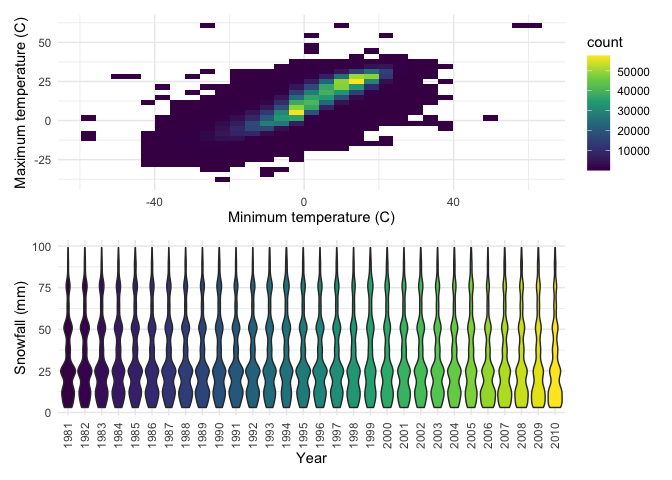
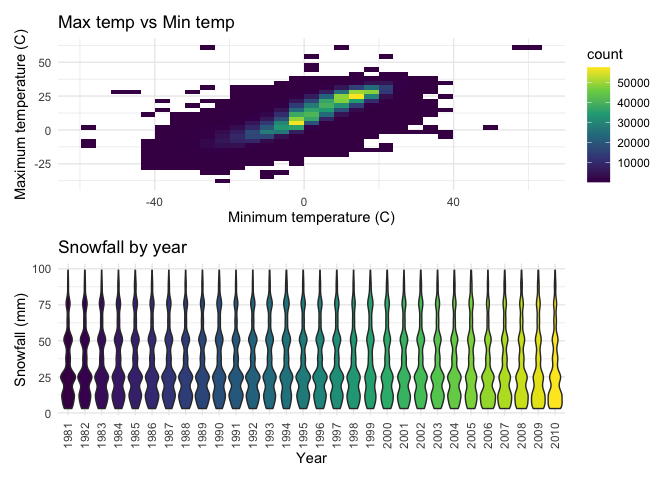
fixed typo and created more spaces

diff --git a/p8105_hw3_ll3344.md b/p8105_hw3_ll3344.md
@@ -9,14 +9,14 @@ First, load all necessary
 library(tidyverse)
 ```
 
-    ## ── Attaching packages ───────────────────────────────────────────────────────────────────────────────────────────────────────────── tidyverse 1.3.0 ──
+    ## ── Attaching packages ─────────────────────────────────────────────────────── tidyverse 1.3.0 ──
 
     ## ✓ ggplot2 3.3.2     ✓ purrr   0.3.4
     ## ✓ tibble  3.0.1     ✓ dplyr   1.0.2
     ## ✓ tidyr   1.1.0     ✓ stringr 1.4.0
     ## ✓ readr   1.3.1     ✓ forcats 0.5.0
 
-    ## ── Conflicts ──────────────────────────────────────────────────────────────────────────────────────────────────────────────── tidyverse_conflicts() ──
+    ## ── Conflicts ────────────────────────────────────────────────────────── tidyverse_conflicts() ──
     ## x dplyr::filter() masks stats::filter()
     ## x dplyr::lag()    masks stats::lag()
 
@@ -113,9 +113,10 @@ instacart %>%
   ggtitle("Most popular aisles in Instacart")
 ```
 
-![](p8105_hw3_ll3344_files/figure-gfm/aisles_plot-1.png)<!-- --> The
-aisles are ordered on the X-axis from left to right by increasing number
-of items ordered.
+![](p8105_hw3_ll3344_files/figure-gfm/aisles_plot-1.png)<!-- -->
+
+The aisles are ordered on the X-axis from left to right by increasing
+number of items ordered.
 
 We will now make a table featuring the three most popular items in the
 aisles: “baking ingredients”, “dog food care”, and “packaged vegetables
@@ -265,8 +266,9 @@ accel_df %>%
 
     ## `geom_smooth()` using method = 'gam' and formula 'y ~ s(x, bs = "cs")'
 
-![](p8105_hw3_ll3344_files/figure-gfm/plot_activity-1.png)<!-- --> The
-patient has little activity between minutes 0 to about 400. This
+![](p8105_hw3_ll3344_files/figure-gfm/plot_activity-1.png)<!-- -->
+
+The patient has little activity between minutes 0 to about 400. This
 corresponds to the hours between midnight and approximately 7am, during
 which time he is probably sleeping. His most active periods during the
 week appear to be Sunday mornings and Friday evenings.
@@ -289,9 +291,9 @@ data("ny_noaa")
     tenths of mm (prcp), snowfall in mm (snow), snow depth in mm (snwd),
     as well as the maximum (tmax) and minimum temperature (tmin) in
     Celsius.
-  - Since each station only collects a subset of this dat, the resulting
-    dataset does contain a significant amount of missing data shown in
-    the below table by column/variable.
+  - Since each station only collects a subset of this data, the
+    resulting dataset does contain a significant amount of missing data
+    shown in the below table by column/variable.
 
 <!-- end list -->
 
@@ -391,14 +393,15 @@ noaa_df %>%
   theme(axis.text.x = element_text(angle = 90, vjust = 0.5, hjust=1)) +
   xlab("Year") + 
   ylab("Average maximum temperature (C)") +
-  ggtitle("Average maximum temperature across NY stations from 1981-2010 in January and July")
+  ggtitle("Average maximum temperature across NY in January and July")
 ```
 
     ## `summarise()` regrouping output by 'id', 'year' (override with `.groups` argument)
 
-![](p8105_hw3_ll3344_files/figure-gfm/plot_tmax-1.png)<!-- --> The plot
-shows that as expected the maximum temperature in July is about 30
-degrees Celsius higher than in January in NY. There is no clear trend
+![](p8105_hw3_ll3344_files/figure-gfm/plot_tmax-1.png)<!-- -->
+
+The plot shows that as expected the maximum temperature in July is about
+30 degrees Celsius higher than in January in NY. There is no clear trend
 over time. There are two notable outliers in January 1982 and 1996 with
 markedly lower temperatures. There is also an outlier in July 1988 which
 also appeared to have a markedly lower temperature than would be
@@ -416,7 +419,8 @@ tmax_tmin_p =
   geom_bin2d() +
   xlab("Minimum temperature (C)") +
   ylab("Maximum temperature (C)") +
-  theme(legend.position = "right")
+  theme(legend.position = "right") +
+  ggtitle("Max temp vs Min temp")
 
 snowfall_p = 
   noaa_df %>%
@@ -425,7 +429,8 @@ snowfall_p =
   geom_violin(aes(fill = year)) + 
   xlab("Year") + 
   ylab("Snowfall (mm)") +
-  theme(axis.text.x = element_text(angle = 90, vjust = 0.5, hjust=1), legend.position = "none")
+  theme(axis.text.x = element_text(angle = 90, vjust = 0.5, hjust=1), legend.position = "none") + 
+  ggtitle("Snowfall by year")
 
 tmax_tmin_p/snowfall_p
 ```
